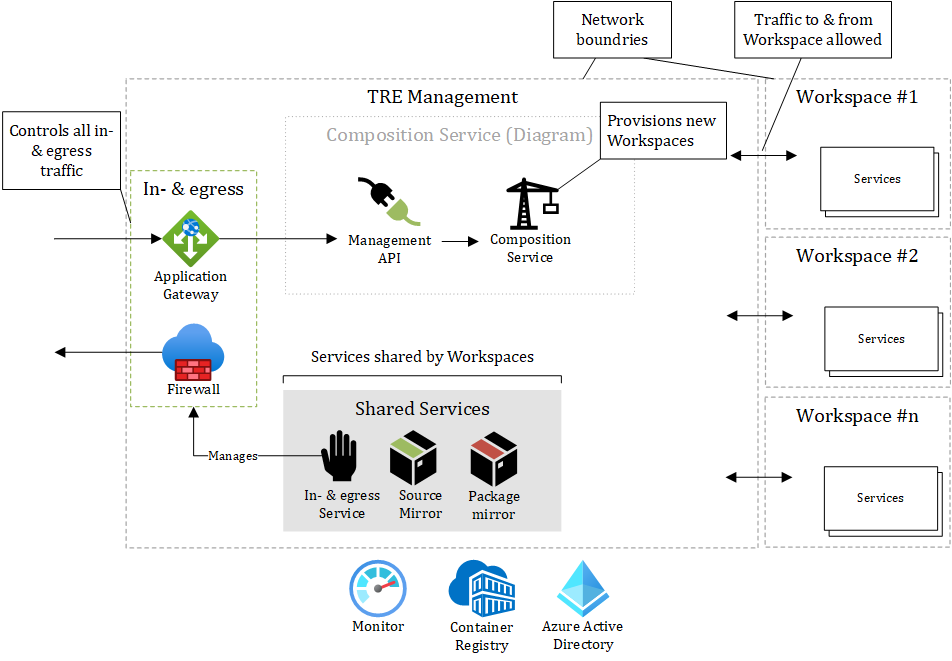
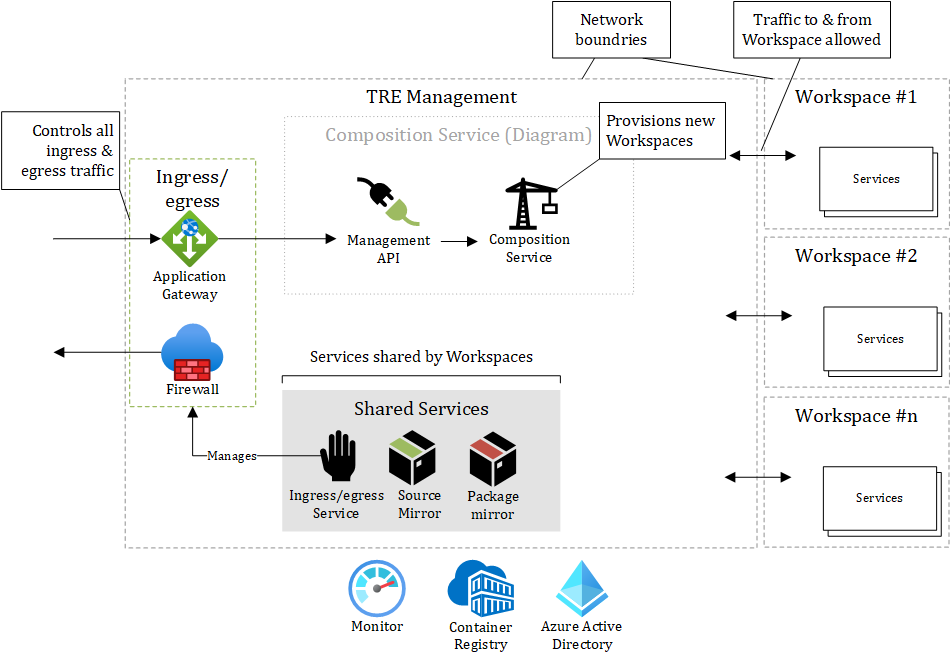
Added section about Workspace Template registration

diff --git a/docs/architecture.md b/docs/architecture.md
@@ -7,12 +7,12 @@ The Azure Trusted Research Environment (TRE) consists of multiple components all
 Management consists of three groups of components.
 
 - Management API & Composition Service
-- Ingress & egress
+- Ingress/egress
 - Shared Services (not implemented yet [#23](https://github.com/microsoft/AzureTRE/issues/23), [#22](https://github.com/microsoft/AzureTRE/issues/21), & [#21](https://github.com/microsoft/AzureTRE/issues/21))
 
 Management API is a services that users can interact with to request changes to Workspaces. To create, update, delete Workspaces or Workspace Services inside each Workspace. The Composition Service is doing the actual work of mutating the state of each Workspace including the Workspace Services.
 
-Ingress & egress components governs all inbound and outbound traffic from the public Internet to and from Azure TRE including the Workspaces. The In- & egress Services is managing the rules of the Application Gateway and Firewall.
+Ingress/egress components governs all inbound and outbound traffic from the public Internet to and from Azure TRE including the Workspaces. The In- & egress Services is managing the rules of the Application Gateway and Firewall.
 
 Shared Services are services available to all Workspaces. Source Mirror can mirror source repositories such as GitHub, but only allowing read-access, hence data from a Workspace cannot be pushed to a source repository.
 Package Mirror is also a read-only front for developer/researcher application package services like NPM, PyPI, and NuGet and operating system application package services like apt-get and Windows Package Manager (winget).
@@ -21,9 +21,18 @@ Package Mirror is also a read-only front for developer/researcher application pa
 
 The Composition Service is responsible for managing and mutating Workspaces and Workspace Service.
 
+A Workspace is an instance of a Workspace Template. A Workspace Template is implemented as a [Porter](https://porter.sh/) bundle - read more about [Authoring Workspaces Templates](authoring-workspaces.md). A Porter bundle is a full encapsulated bundle with everything needed (binaries, scripts, IoC templates etc.) to provision an instance of Workspace Template.
+The [TRE Administrator](./user-roles.md#tre-administrator) can register a Porter bundle to use the Composition Service to provision instances of the Workspace Templates.
+To do so requires:
+
+1. The Porter bundle to be pushed to the Azure Container Registry (ACR).
+1. Registering the Workspace through the Management API.
+
+### Provision a Workspace
+
 ![Composition Service](./assets/composition-service.png)
 
-The flow to mutate a Workspace is the following:
+The flow to provision a Workspace is the following (the flow is the same for all kinds of mutations to a Workspace):
 
 1. A HTTP request to the Management API to create a new Workspace. The request contains information like the name of the Workspace, the Workspace Template to use and the parameters required for the Workspace Template (Workspace Templates can via a JSON Schema expose the the parameters).
 1. The desired state of the Workspace is updated in the Configuration Store.
@@ -42,7 +51,7 @@ The flow to mutate a Workspace is the following:
     ```
 
 1. The Resource Processor Azure Function is triggered by the arrival of a new message.
-1. The Resource Processor processes the command by provisioning an [Azure Container Instance](https://docs.microsoft.com/en-us/azure/container-instances/) (ACI). A Workspace Template is implemented as a [Porter](https://porter.sh/) bundle - read more about [Authoring Workspaces](authoring-workspaces.md).
+1. The Resource Processor processes the command by provisioning an [Azure Container Instance](https://docs.microsoft.com/en-us/azure/container-instances/) (ACI) instance executing the Porter bundle (the implementation of a Workspace Template).
 
     ```bash
     # simplified for readability
